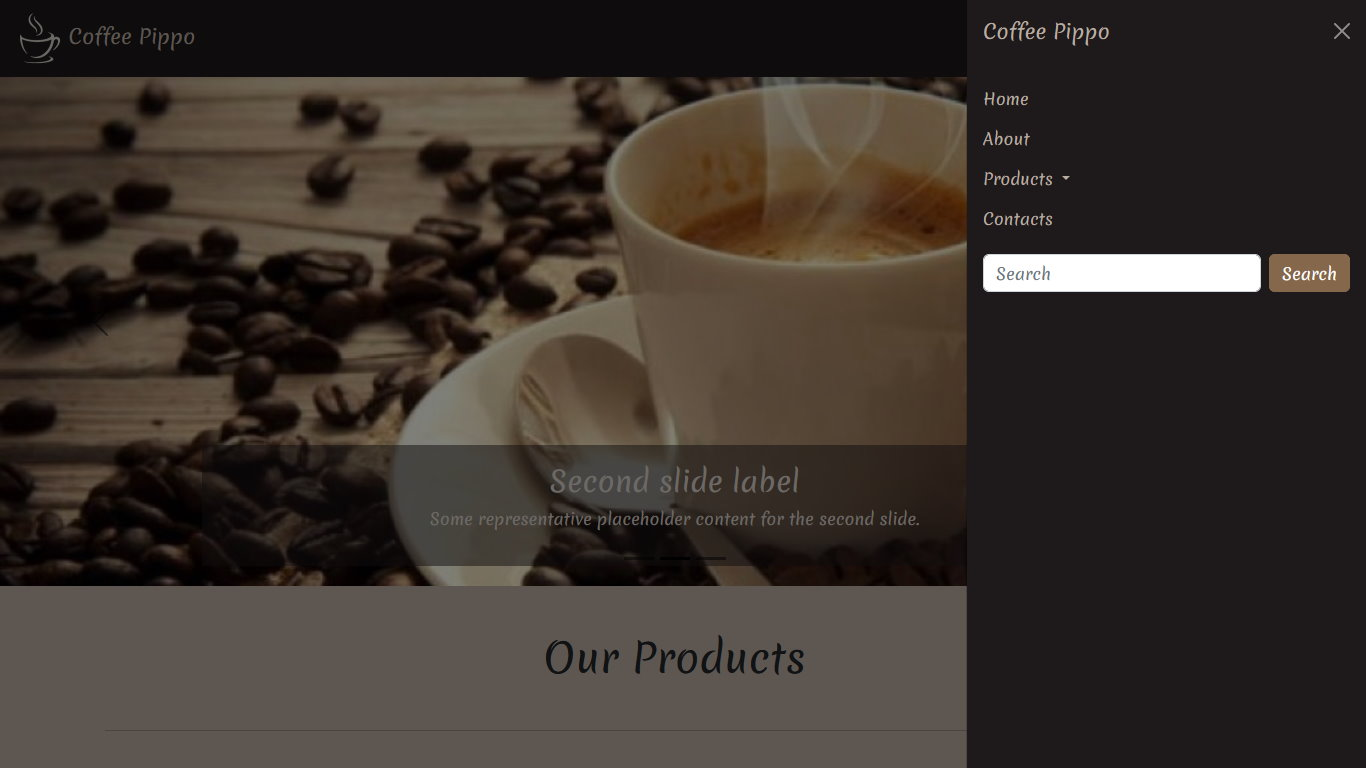
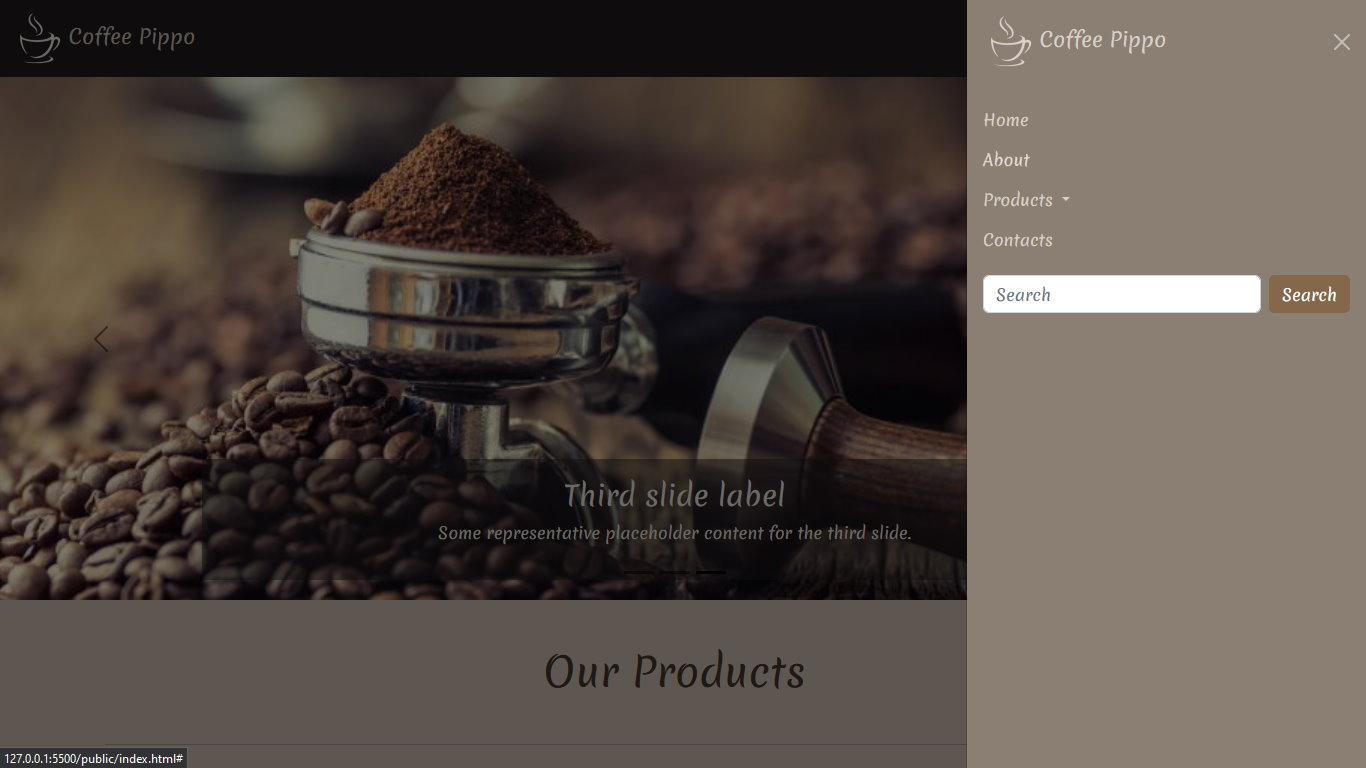
update

diff --git a/public/index.html b/public/index.html
@@ -25,12 +25,13 @@
                     data-bs-target="#offcanvasDarkNavbar" aria-controls="offcanvasDarkNavbar">
                     <span class="navbar-toggler-icon"></span>
                 </button>
-                <div class="offcanvas offcanvas-end text-bg-dark bg-coffee-normal2" tabindex="-1" id="offcanvasDarkNavbar"
-                    aria-labelledby="offcanvasDarkNavbarLabel">
+                <div class="offcanvas offcanvas-end text-bg-dark bg-coffee-normal2" tabindex="-1"
+                    id="offcanvasDarkNavbar" aria-labelledby="offcanvasDarkNavbarLabel">
                     <div class="offcanvas-header">
                         <h5 class="offcanvas-title text-coffee-light1 user-select-none" id="offcanvasDarkNavbarLabel">
                             <img src="./img/coffee-logo.png" alt="coffee-logo">
-                            Coffee Pippo</h5>
+                            Coffee Pippo
+                        </h5>
                         <button type="button" class="btn-close btn-close-white" data-bs-dismiss="offcanvas"
                             aria-label="Close"></button>
                     </div>
@@ -61,7 +62,8 @@
                             </li>
                         </ul>
                         <form class="d-flex mt-3" role="search">
-                            <input class="form-control me-2 text-coffee-dark2" type="search" placeholder="Search" aria-label="Search">
+                            <input class="form-control me-2 text-coffee-dark2" type="search" placeholder="Search"
+                                aria-label="Search">
                             <button class="btn btn-coffee-normal3" type="submit">Search</button>
                         </form>
                     </div>
@@ -161,19 +163,21 @@
     <div class="h1 text-center m-5 text-coffee-dark2">Contact us</div>
     <hr class="container">
     <form action="#" class="container m-auto my-5">
-        <div class="col-lg-6 col-md-12 m-auto mb-3">
-            <label for="exampleFormControlInput1" class="form-label">Email address</label>
-            <input type="email" class="form-control text-coffee-dark2" id="exampleFormControlInput1" placeholder="name@example.com">
+        <div class="form-floating col-lg-6 col-md-12 m-auto mb-3">
+            <input type="email" class="form-control text-coffee-dark2" id="floatingInput"
+                placeholder="name@example.com">
+            <label for="floatingInput" class="form-label">Email address</label>
         </div>
-        <div class="col-lg-6 col-md-12 m-auto mb-3">
-            <label for="exampleFormControlTextarea1" class="form-label">Example textarea</label>
-            <textarea class="form-control text-coffee-dark2" id="exampleFormControlTextarea1" rows="3"></textarea>
+        <div class="form-floating col-lg-6 col-md-12 m-auto mb-3">
+            <textarea class="form-control text-coffee-dark2 h-50" id="floatingArea" rows="3"
+                placeholder="Comment here"></textarea>
+            <label for="floatingArea" class="form-label">Comments</label>
         </div>
         <div class="col-lg-6 col-md-12 m-auto mb-3">
             <button class="btn btn-coffee-normal3" type="submit">Send request</button>
         </div>
     </form>
-    
+
     <!-- footer -->
     <footer class="d-flex justify-content-between bg-coffee-dark1 text-coffee-light1">
         <div class="p-3"> © 2017-2018 Company, Inc. · Privacy · Terms</div>

diff --git a/scss/bootstrap-coffee-theme.scss b/scss/bootstrap-coffee-theme.scss
@@ -1,6 +1,7 @@
 @import url('https://fonts.googleapis.com/css2?family=Merienda&display=swap');
 
-$font-family-base : 'Merienda',cursive;
+$font-family-base : 'Merienda',
+cursive;
 
 $input-focus-border-color: #403129;
 $input-focus-box-shadow: #1E191B;
@@ -21,5 +22,17 @@ $custom-colors: (
 );
 
 $theme-colors: map-merge($theme-colors, $custom-colors);
+
+// fix textarea multiline floating label
+.form-floating:before {
+    content: '';
+    position: absolute;
+    top: 1px;
+    left: 1px;
+    width: calc(100% - 20px);
+    height: 28px;
+    border-radius: 4px;
+    background-color: #ffffff;
+}
 
 @import '../node_modules/bootstrap/scss/bootstrap';

diff --git a/public/css/bootstrap-coffee-theme.min.css b/public/css/bootstrap-coffee-theme.min.css
@@ -1,4 +1,4 @@
-@import"https://fonts.googleapis.com/css2?family=Merienda&display=swap";/*!
+@import"https://fonts.googleapis.com/css2?family=Merienda&display=swap";.form-floating:before{content:"";position:absolute;top:1px;left:1px;width:calc(100% - 20px);height:28px;border-radius:4px;background-color:#fff}/*!
  * Bootstrap  v5.2.2 (https://getbootstrap.com/)
  * Copyright 2011-2022 The Bootstrap Authors
  * Copyright 2011-2022 Twitter, Inc.
